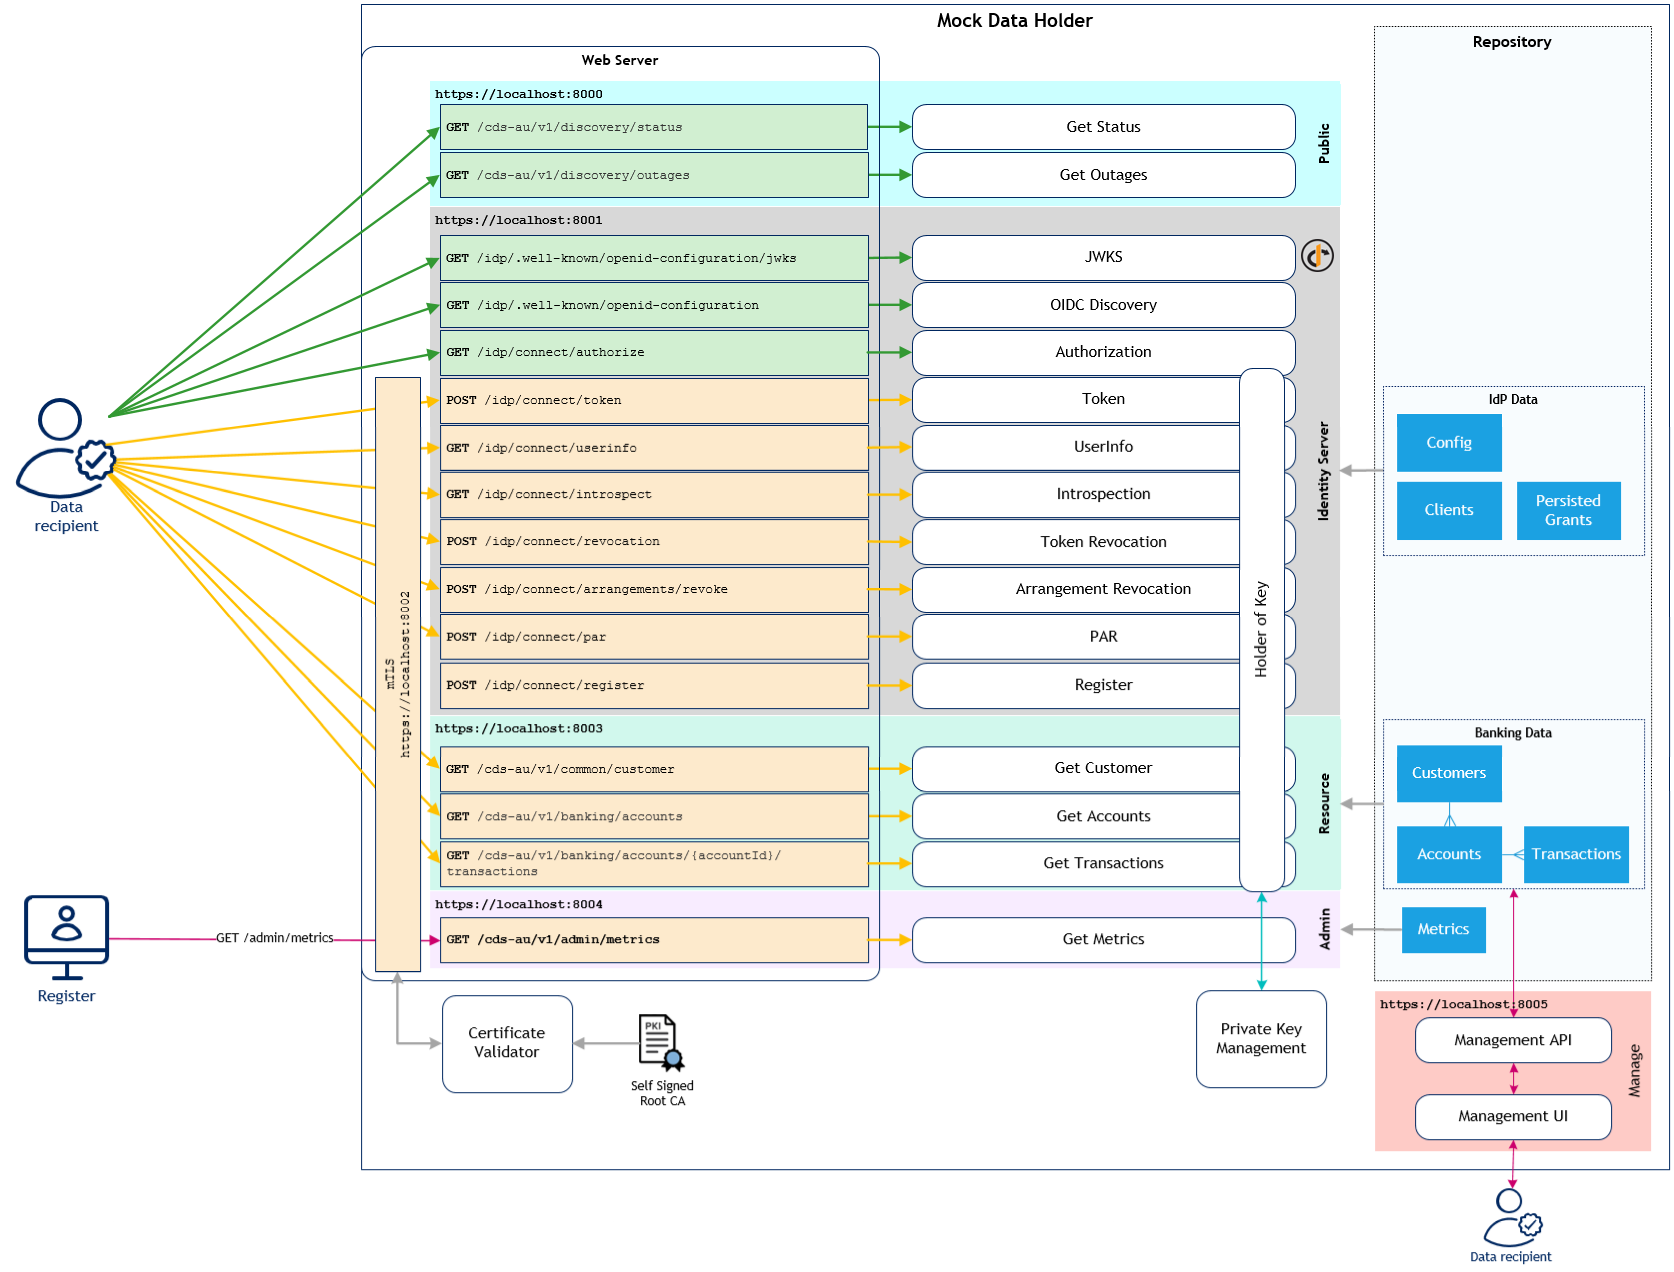
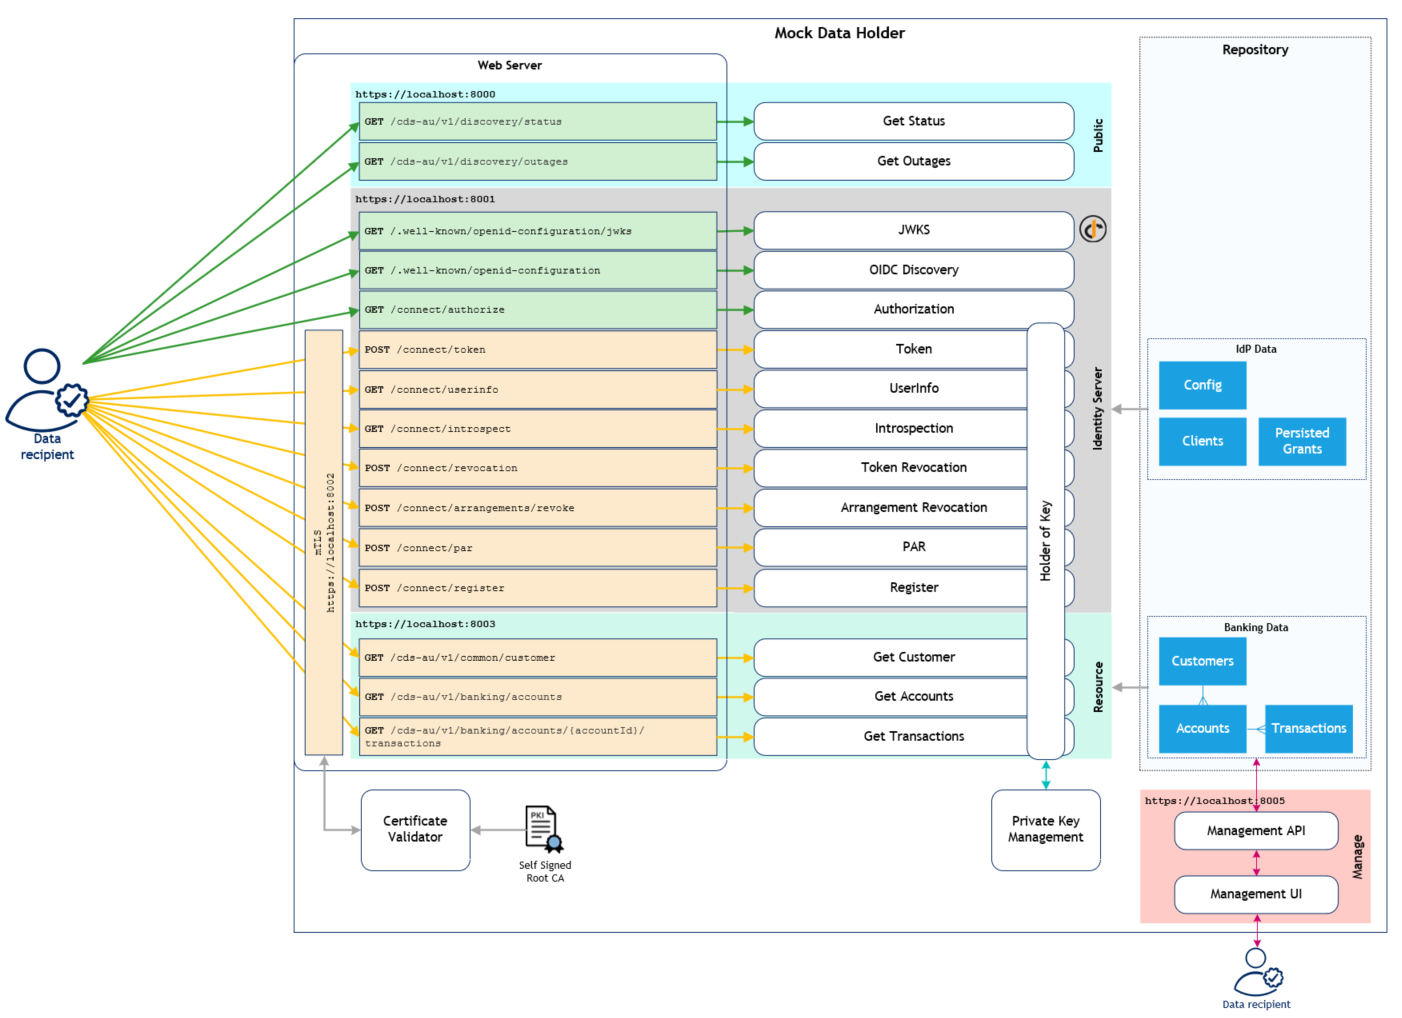
Removed GetMetrics references from documentation

Changed region(s): [[0.0, 0.0, 1.0, 1.0], [0.0, 0.7004, 0.092, 0.7917]]

diff --git a/README.md b/README.md
@@ -150,10 +150,6 @@ The Mock Data Holder contains the following components:
   - Hosted at `https://localhost:8003`
   - Currently includes the `Get Customer`, `Get Accounts` and `Get Transactions` endpoints.
   - Accessed via the mTLS Gateway.
-- Admin API
-  - Hosted at `https://localhost:8004`
-  - Contains the `Get Metrics` endpoint.  *To be implemented*
-  - Accessed via the mTLS Gateway.
 - Manage API
   - Hosted at `https://localhost:8005`
   - Not part of the Consumer Data Standards, but allows for the maintenance of data in the Mock Data Holder repository.
